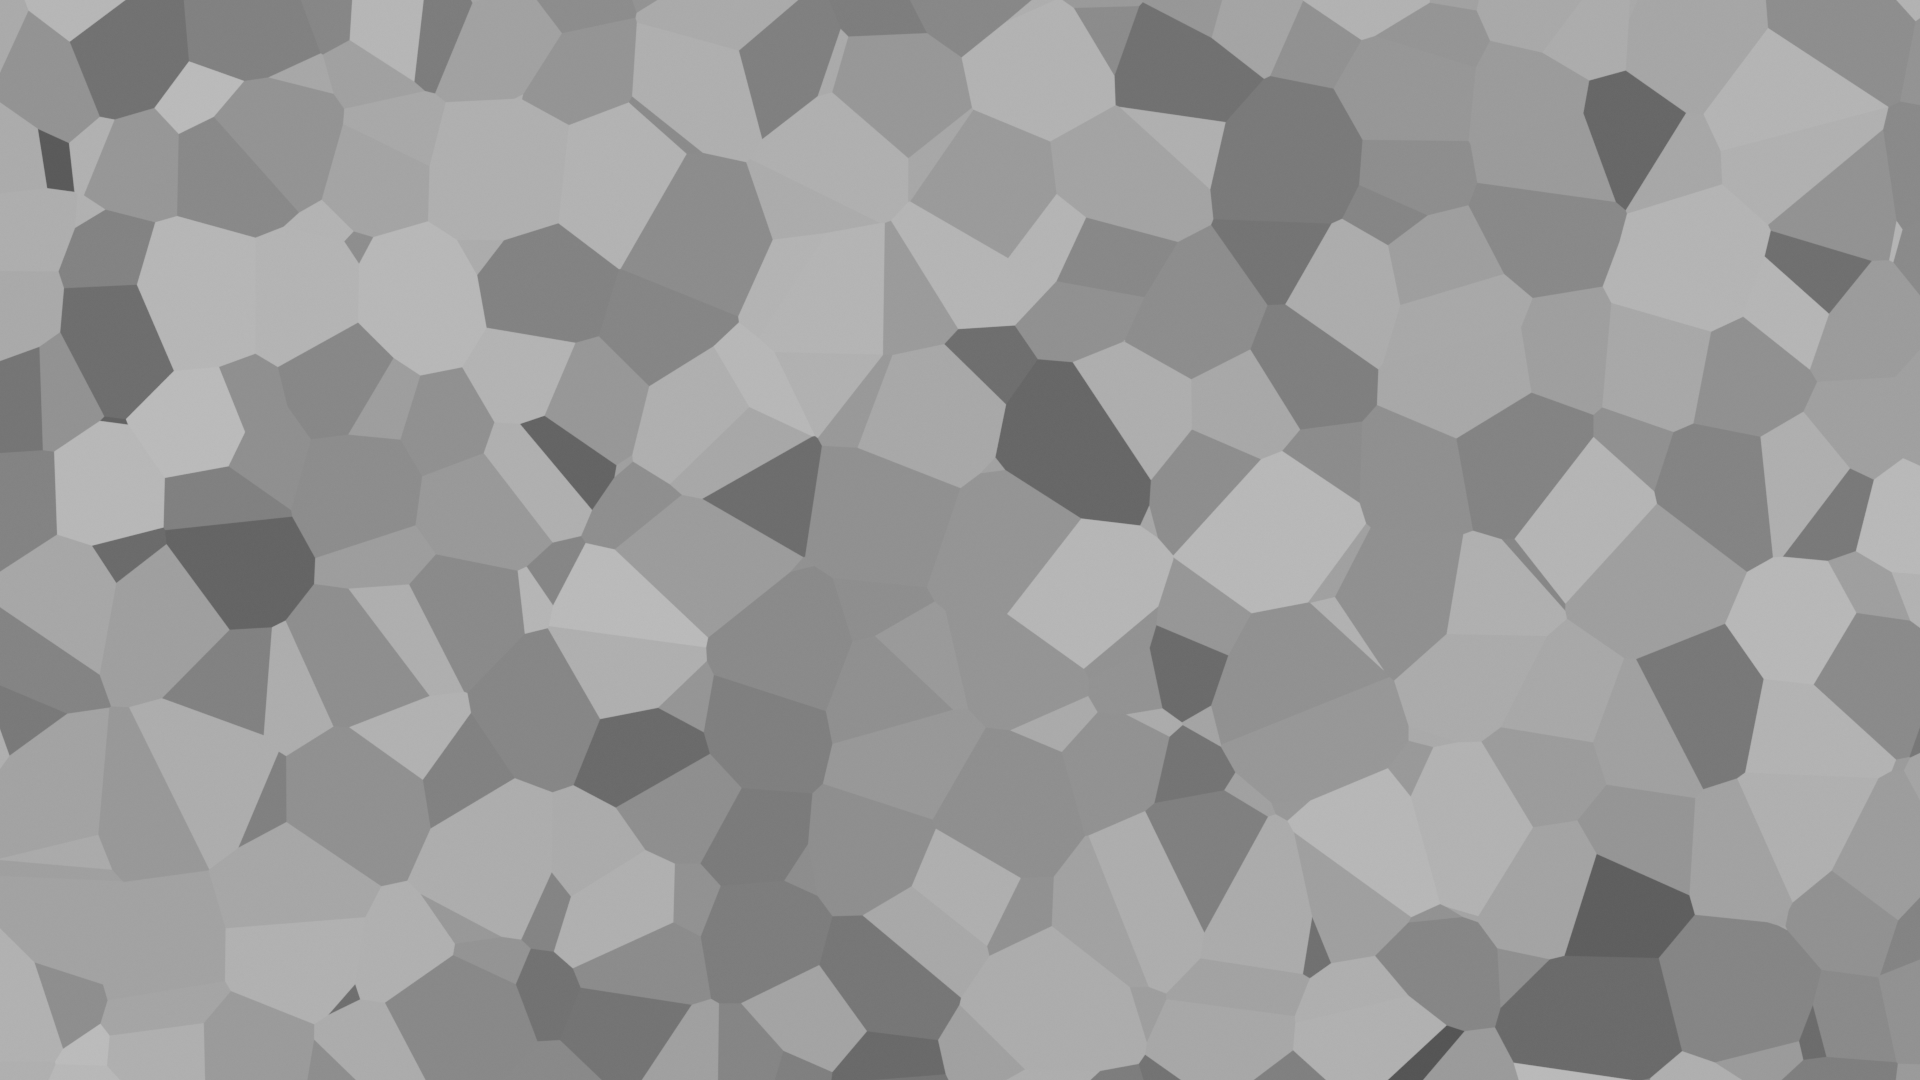
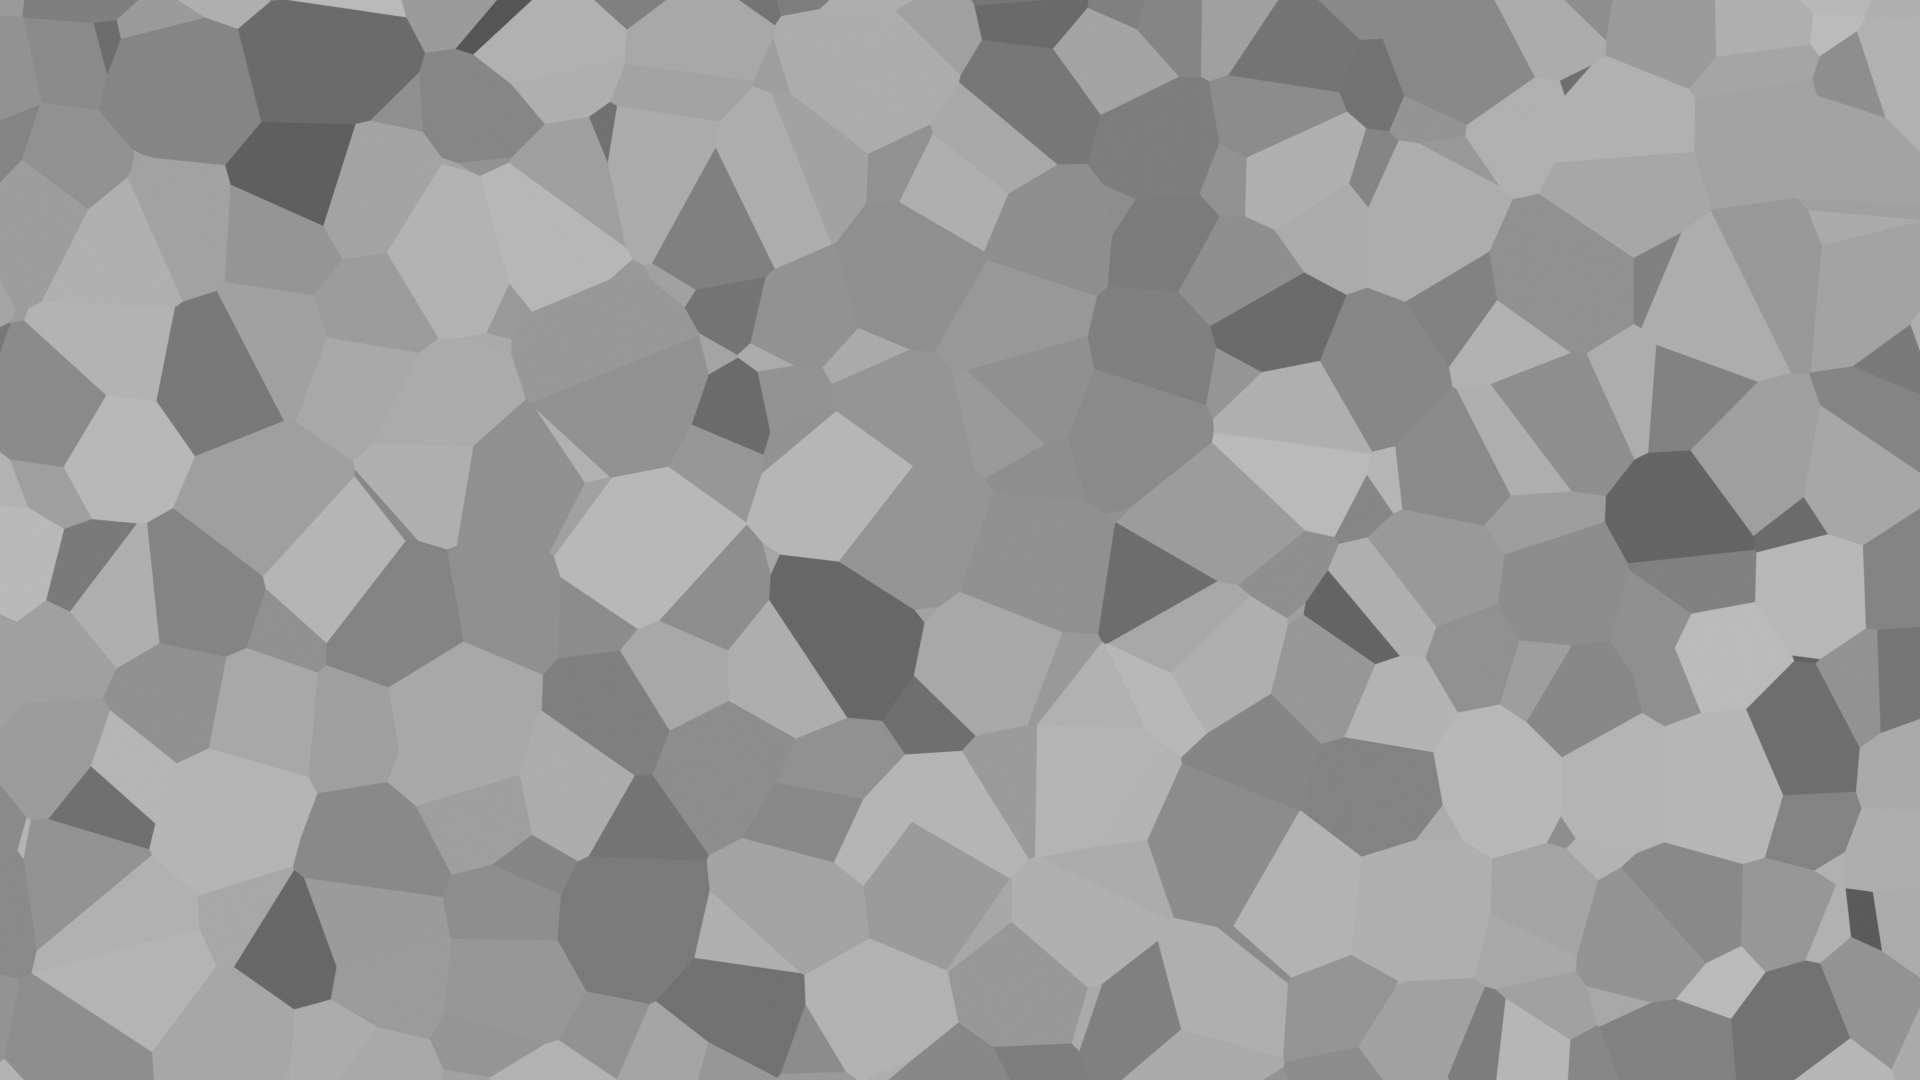
2020-06-02

diff --git a/fold_parallax_v11.py b/fold_parallax_v11.py
@@ -1,5 +1,5 @@
 """
-
+crashes when starting a new round
 https://www.psychopy.org/general/units.html
 
 """
@@ -94,47 +94,48 @@ def render2hmd(stim, hmd, voro, rotation_mtx):
     return hmd
 
 def create_aperture(y0=-0.3,y1=-3.):
-    x = np.linspace(-3.0, 3.0, 3)
-    y = np.linspace(y0, y1, 3)
-    xx, yy = np.meshgrid(x, y)
-    zz = np.tile(np.array([0.5, 0.5, 0.5]), (3, 1))
+    x_range = np.linspace(-3.0, 3.0, 3)
+    y_range = np.linspace(y0, y1, 3)
+    x, y = np.meshgrid(x_range, y_range)
+    z = np.tile(np.array([0.5, 0.5, 0.5]), (3, 1))
 
-    vao = mtx2vao(xx, yy, zz)
+    vao = mtx2vao(x, y, z)
 
     return vao
 
 def create_floor():
-    x = np.linspace(-2.0, 2.0, 3)
-    z = np.linspace(-5.0, 3.0, 3)
-    xx, zz = np.meshgrid(x, z)    
-    yy = np.tile(np.array([0, 0, 0])-3, (3, 1))
-    vao = mtx2vao(xx, yy, zz)
+    x_range = np.linspace(-2.0, 2.0, 3)
+    z_range = np.linspace(-5.0, 3.0, 3)
+    x, z = np.meshgrid(x_range, z_range)    
+    y = np.tile(np.array([0, 0, 0])-3, (3, 1))
+    vao = mtx2vao(x, y, z)
     return vao
 
-def create_origin(yy0=-2.8): 
-    x = np.linspace(-0.3, 0.3, 3)
+def create_origin(y0=-2.8): 
+    x_range = np.linspace(-0.3, 0.3, 3)
     #z = np.linspace(1.55, 1.7, 3)
-    z = np.linspace(1.55, 1.7, 3)
-    xx, zz = np.meshgrid(x, z)
+    z_range = np.linspace(1.55, 1.7, 3)
+    x, z = np.meshgrid(x_range, z_range)
     
-    yy = np.tile(np.array([yy0, yy0, yy0]), (3, 1))
-    vao = mtx2vao(xx, yy, zz)
+    y = np.tile(np.array([y0, y0, y0]), (3, 1))
+    vao = mtx2vao(x, y, z)
 
     return vao
 
-def create_half_fold(shape='left'):
+def create_half_fold(width, shape='left'):
+    
     if shape in ['left']:
-        x = np.linspace(-1.0, 0.0, 2)
-        y = np.linspace(1.0, -1.0, 2)
-        xx, yy = np.meshgrid(x, y)
-        zz = np.tile(np.array([-1, 0]), (2, 1))
+        x_range = np.linspace(-1*width, 0.0, 2)
+        y_range = np.linspace(1.0, -1.0, 2)
+        x, y = np.meshgrid(x_range, y_range)
+        z = np.tile(np.array([-1*width, 0]), (2, 1))
     else:
-        x = np.linspace(0.0, 1.0, 2)
-        y = np.linspace(1.0, -1.0, 2)
-        xx, yy = np.meshgrid(x, y)
-        zz = np.tile(np.array([0, -1]), (2, 1))
+        x_range = np.linspace(0.0, 1*width, 2)
+        y_range = np.linspace(1.0, -1.0, 2)
+        x, y = np.meshgrid(x_range, y_range)
+        z = np.tile(np.array([0, -1*width]), (2, 1))
         
-    vao = mtx2vao(xx, yy, zz)
+    vao = mtx2vao(x, y, z)
     return vao
 
 def positive_or_negative():
@@ -154,14 +155,16 @@ def black(hmd, head_pos, eye, blacklight, fr=3., bk=3.1): # fr=-0.12, bk=0.05
         elif eye == 'left':
             blacklight.pos = (head_pos.pos[0], head_pos.pos[1])
             blacklight.draw(hmd)
-        
-    return hmd, blacklight
+        dimming = True
+    else:
+        dimming = False
+    return hmd, blacklight, dimming
 
 
 
 # In[]
-def gen_rotation_mtx(thumbVal, trianglePose):
-    rotation = mathtools.rotationMatrix(thumbVal * 180 / math.pi, [0., 1., 0.]) # <<<<< rotation
+def gen_rotation_mtx(input_ang, trianglePose):
+    rotation = mathtools.rotationMatrix(input_ang * 180 / math.pi, [0., 1., 0.]) # <<<<< rotation
     rotation_mtx = mathtools.concatenate(
                     [rotation, trianglePose.getModelMatrix()], dtype=np.float32)
     rotation_mtx = arraytools.array2pointer(rotation_mtx)
@@ -187,7 +190,7 @@ def init_output(OUTPUT_PATH, outfile_base, play_sound=True, additional=True):
     else:
         time_str = ''
     
-    time_str += '_' + ok_data[2] + '_' + ok_data[3]
+    time_str += '_' + ok_data[2] + '_' + ok_data[3] +  '_' + ok_data[4]+  '_' + ok_data[5]
         
     output_file = '_'.join([outfile_base, time_str, os.path.basename(sys.argv[0])]) + r'.csv'
     csv_hdl = open(os.path.join(OUTPUT_PATH, output_file),'w')
@@ -240,15 +243,27 @@ def run_exp(hmd, bino, results, play_sound=True, stopApp = False):
     IMG_PATH = r'.\images'
     img_path2 = r'.\images'
     
-    
-    all_gain = [1/2, 2/3, 4/5, 1, 5/4, 3/2, 2]
+    if ok_data[3] in ["motion"]:
+        all_gain = [1/2, 2/3, 4/5, 1, 5/4, 3/2, 2]
+    else:
+        all_gain = [1, 1, 1, 1, 1, 1, 1]
     all_distance = [1.3, 1.4, 1.5]
+    all_width = [1, 1.125, 1.25]
+    all_width_shuffle = [1, 1.125, 1.25]
     exp_conditions = []
     
     for i_g in range(len(all_gain)):
+        shuffle(all_width_shuffle)
         for i_d in range (len(all_distance)):
-            exp_conditions.append([all_distance[i_d],all_gain[i_g]])
+            voro_distance = voros[i_d]
+            voro_width = widths[all_width.index(all_width_shuffle[i_d])]
+            voro_str = voro_distance + '_' + voro_width + ".png"
+            voro = gltools.createTexImage2dFromFile(r'{}'.format(os.path.join(IMG_PATH, voro_str)))            
+            left = create_half_fold(all_width_shuffle[i_d],'left')
+            right = create_half_fold(all_width_shuffle[i_d],'right')
+            exp_conditions.append([all_distance[i_d], all_gain[i_g], all_width_shuffle[i_d], left, right, voro])
     shuffle(exp_conditions)
+
     #play_sound = True
     #depth_restriction = False
     timediff = 1
@@ -272,19 +287,22 @@ def run_exp(hmd, bino, results, play_sound=True, stopApp = False):
     blacklight = visual.GratingStim(hmd, mask='gauss', size=3.0, tex=None, color=(0,0,0), contrast=0.8, units='norm')
     blacklight.setOpacity(0.8)
     
-    stim_left = create_half_fold('left')
-    stim_right = create_half_fold('right')
+# =============================================================================
+#     stim_left = create_half_fold('left')
+#     stim_right = create_half_fold('right')
+# =============================================================================
     stim_floor = create_floor()
     stim_aperture_low = create_aperture()
     stim_aperture_high = create_aperture(11.3, 0.3)
     stim_origin = create_origin()    
 
-    voro50 = gltools.createTexImage2dFromFile(
-        r'{}'.format(os.path.join(IMG_PATH, 'voronoi_50.png')))
-    voro53 = gltools.createTexImage2dFromFile(
-        r'{}'.format(os.path.join(IMG_PATH, 'voronoi_53.png')))
-    voro56 = gltools.createTexImage2dFromFile(
-        r'{}'.format(os.path.join(IMG_PATH, 'voronoi_56.png')))
+# =============================================================================
+#     voro_big = gltools.createTexImage2dFromFile(r'{}'.format(os.path.join(IMG_PATH, 'voronoi_50.png')))
+#     voro_middle = gltools.createTexImage2dFromFile(
+#         r'{}'.format(os.path.join(IMG_PATH, 'voronoi_50.1.png')))
+#     voro_small = gltools.createTexImage2dFromFile(
+#         r'{}'.format(os.path.join(IMG_PATH, 'voronoi_50.2.png')))
+# =============================================================================
     
     FloorTexture = gltools.createTexImage2dFromFile(
         r'{}'.format(os.path.join(IMG_PATH, 'diffus.png')))
@@ -299,8 +317,17 @@ def run_exp(hmd, bino, results, play_sound=True, stopApp = False):
     down_img = r'{}'.format(os.path.join(img_path2, 'cube_floor.png'))
     back_img = r'{}'.format(os.path.join(img_path2, 'cube_back.png'))
     front_img = r'{}'.format(os.path.join(img_path2, 'cube_front.png'))
+    
+    right_img_dimmed = r'{}'.format(os.path.join(img_path2, 'dimmed_right.png'))
+    left_img_dimmed = r'{}'.format(os.path.join(img_path2, 'dimmed_left.png'))
+    up_img_dimmed = r'{}'.format(os.path.join(img_path2, 'dimmed_ceiling.png'))
+    down_img_dimmed = r'{}'.format(os.path.join(img_path2, 'dimmed_floor.png'))
+    back_img_dimmed = r'{}'.format(os.path.join(img_path2, 'dimmed_back.png'))
+    front_img_dimmed = r'{}'.format(os.path.join(img_path2, 'dimmed_front.png'))
     sky = visual.SceneSkybox(hmd, (right_img, left_img, up_img, down_img, 
                                    back_img, front_img))    
+    skydark = visual.SceneSkybox(hmd, (right_img_dimmed, left_img_dimmed, up_img_dimmed, down_img_dimmed, 
+                                   back_img_dimmed, front_img_dimmed))
     metronome = Sound(r'.\audio\output.wav')
     beep = Sound('C')
     nextRound = False
@@ -318,8 +345,11 @@ def run_exp(hmd, bino, results, play_sound=True, stopApp = False):
     while i_exp < len(exp_conditions):
     #for i_exp in range(len(exp_conditions)):
     
-        print('[debug info] %s: [distance, gain] = [%s, %s]' % (i_exp, *exp_conditions[i_exp]))
-        voro = vars()[voros[all_distance.index(exp_conditions[i_exp][0])]]
+        print('[debug info] %s: [distance, gain, width] = [%s, %s, %s, %s, %s, %s]' % (i_exp, *exp_conditions[i_exp]))
+        
+        stim_left = exp_conditions[i_exp][3]
+        stim_right = exp_conditions[i_exp][4]
+        voro = exp_conditions[i_exp][5]
         trianglePosition = (0., hmd.eyeHeight, exp_conditions[i_exp][0])
         trianglePose = rifttools.LibOVRPose(trianglePosition)    
         
@@ -331,7 +361,7 @@ def run_exp(hmd, bino, results, play_sound=True, stopApp = False):
         rand_ang = math.pi * (15 + random()*25)/180 * positive_or_negative()
         
         # thumbstick value
-        thumbVal = rand_ang
+        adju_ang = rand_ang
         stopCurr = False
         adjustment_cnt = 0
         
@@ -371,7 +401,7 @@ def run_exp(hmd, bino, results, play_sound=True, stopApp = False):
                 else:
                         
                     hmd.setBuffer(i)
-                    hmd, blacklight = black(hmd, headPose, i, blacklight)
+                    hmd, blacklight, dimming = black(hmd, headPose, i, blacklight)
                     hmd.setRiftView()
                     #--------------- origin
                     hmd = render_plane(stim_origin, hmd, WhiteTexture, trianglePose)
@@ -381,12 +411,15 @@ def run_exp(hmd, bino, results, play_sound=True, stopApp = False):
                     #--------------- floor
                     hmd = render_plane(stim_floor, hmd, FloorTexture, trianglePose)
                     #-------------- the left half prism
-                    rotation_mtx = gen_rotation_mtx(thumbVal, trianglePose)
+                    rotation_mtx = gen_rotation_mtx(adju_ang, trianglePose)
                     hmd = render2hmd(stim_left, hmd, voro, rotation_mtx)
                     #-------------- the right half prism
-                    rotation_mtx = gen_rotation_mtx(-thumbVal, trianglePose)
+                    rotation_mtx = gen_rotation_mtx(-adju_ang, trianglePose)
                     hmd = render2hmd(stim_right, hmd, voro, rotation_mtx)
-                    sky.draw()
+                    if dimming:
+                        skydark.draw()
+                    else:
+                        sky.draw()
                     #----------------------------------
                     hmd.setDefaultView()
                     hmd = red(hmd, headPose, i, redlight)
@@ -396,17 +429,17 @@ def run_exp(hmd, bino, results, play_sound=True, stopApp = False):
             hmd.flip()
             rawVal = hmd.getThumbstickValues(r'Touch', deadzone=True)[1]
             if rawVal[0] > 0.25:
-                thumbVal += min_rotation
+                adju_ang += min_rotation
                 adjustment_cnt += 1
                 
             elif rawVal[0] < -0.25:
-                thumbVal -= min_rotation
+                adju_ang -= min_rotation
                 adjustment_cnt -= 1
             
             
             if event.getKeys('q') or hmd.shouldQuit or hmd.getButtons('A', 'Touch', 'released')[0]:
-                results.append([i_exp, exp_conditions[i_exp][0], rand_ang, min_rotation,
-                    adjustment_cnt, exp_conditions[i_exp][1]
+                results.append([adju_ang, exp_conditions[i_exp][0], rand_ang, min_rotation,
+                    adjustment_cnt, exp_conditions[i_exp][1], exp_conditions[i_exp][2]
                     ])
                 
                 last_angle = rand_ang
@@ -419,8 +452,8 @@ def run_exp(hmd, bino, results, play_sound=True, stopApp = False):
                 
             elif event.getKeys('x') or hmd.shouldQuit or hmd.getButtons('B', 'Touch', 'released')[0]:
                 print(' ==> program stoped or finished')
-                results.append([i_exp, exp_conditions[i_exp][0], rand_ang, min_rotation,
-                    adjustment_cnt, exp_conditions[i_exp][1]
+                results.append([adju_ang, exp_conditions[i_exp][0], rand_ang, min_rotation,
+                    adjustment_cnt, exp_conditions[i_exp][1], exp_conditions[i_exp][2]
                     ])
                 
                 stopApp = True
@@ -438,7 +471,7 @@ def check_rerun(i_exp,results,exp_conditions,stopCurr):
     if event.getKeys('r'): # ===========> rerun last experiment                
         if len(results)>=1:
             del results[-1]
-            print('[warning] opt to rerun last experiment %s: [distance, gain] = [%s, %s]' % (i_exp-1, *exp_conditions[i_exp-1]))
+            print('[warning] opt to rerun last experiment %s: [distance, gain, width] = [%s, %s, %s]' % (i_exp-1, *exp_conditions[i_exp-1][:3]))
             i_exp -= 1
             stopCurr = True
         else:
@@ -450,7 +483,7 @@ def write2file(csvhdl,data):
     
     for ir in range(len(data)):
         curr_data = data[ir]
-        csvhdl.write('{}, {}, {}, {}, {}, {}\n'.format(*curr_data))
+        csvhdl.write('{}, {}, {}, {}, {}, {}, {}\n'.format(*curr_data))
     
     csvhdl.close()
     
@@ -475,19 +508,21 @@ if __name__ == "__main__":
     # 3
     myDlg.addField('Motion Condition:', choices=["static", "motion"])
     # 4
-    myDlg.addField('Texture Condition:', choices=["constant", "scaled"])
+    myDlg.addField('Texture Condition:', choices=["scaled", "constant"])
     # 5
+    myDlg.addField('Width Condition:', choices=["scaled", "constant"])
+    # 6
     myDlg.addText('Data')
     myDlg.addField('Output directory:', './output')
     ok_data = myDlg.show()  # show dialog and wait for OK or Cancel
     
     if myDlg.OK:  # or if ok_data is not None
         stopApp = False
-        hmd = visual.Rift(samples=16, color=(-1, -1, -1), waitBlanking=False, 
+        hmd = visual.Rift(samples=32, color=(-1, -1, -1), waitBlanking=False, 
                           winType='glfw', #unit='norm',
                           useLights=True)
         OUTPUT_FILE = r'{}'.format(ok_data[0])
-        OUTPUT_PATH = r'{}'.format(ok_data[5])
+        OUTPUT_PATH = r'{}'.format(ok_data[6])
         
         if ok_data[2] in ["bino"]:
             bino = True
@@ -499,10 +534,13 @@ if __name__ == "__main__":
         else:
             play_sound = False
         if ok_data[4] in["constant"]:
-            voros = ["voro50","voro50","voro50"]
+            voros = ["voronoi_50","voronoi_50","voronoi_50"]
         else:
-            voros = ["voro56","voro53","voro50"]
-        
+            voros = ["voronoi_50.1","voronoi_50.2","voronoi_50"]
+        if ok_data[5] in["constant"]:
+            widths = ["wide","wide","wide"]
+        else:
+            widths = ["narrow","middle","wide"]   
         csv_hdl = init_output(OUTPUT_PATH, OUTPUT_FILE, ok_data)
         
         exp_results = []
@@ -518,8 +556,5 @@ if __name__ == "__main__":
     else:
         
         print('user cancelled')
-        
-    
-    
         
     
